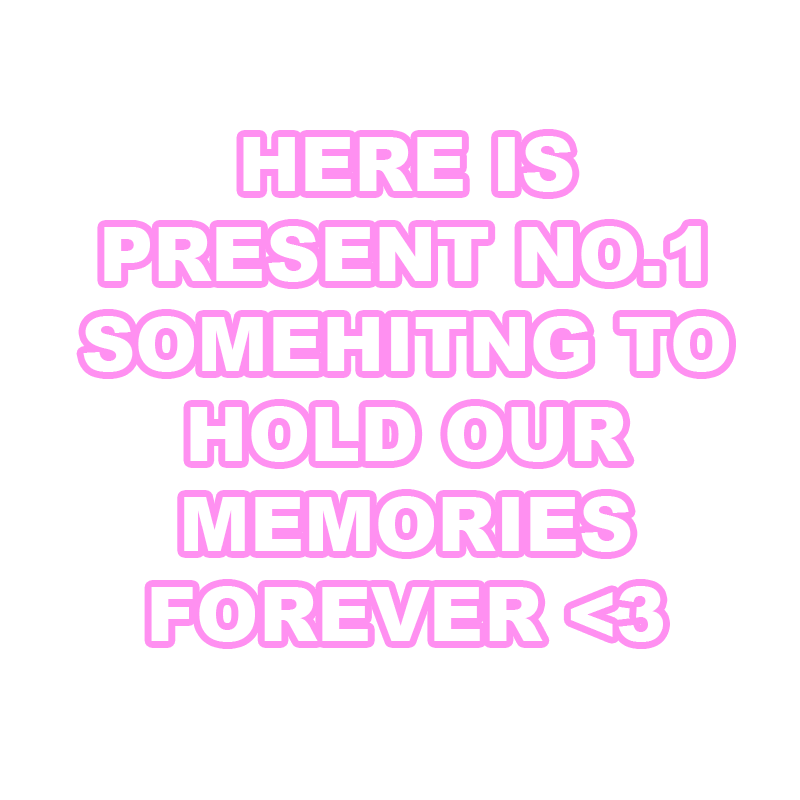
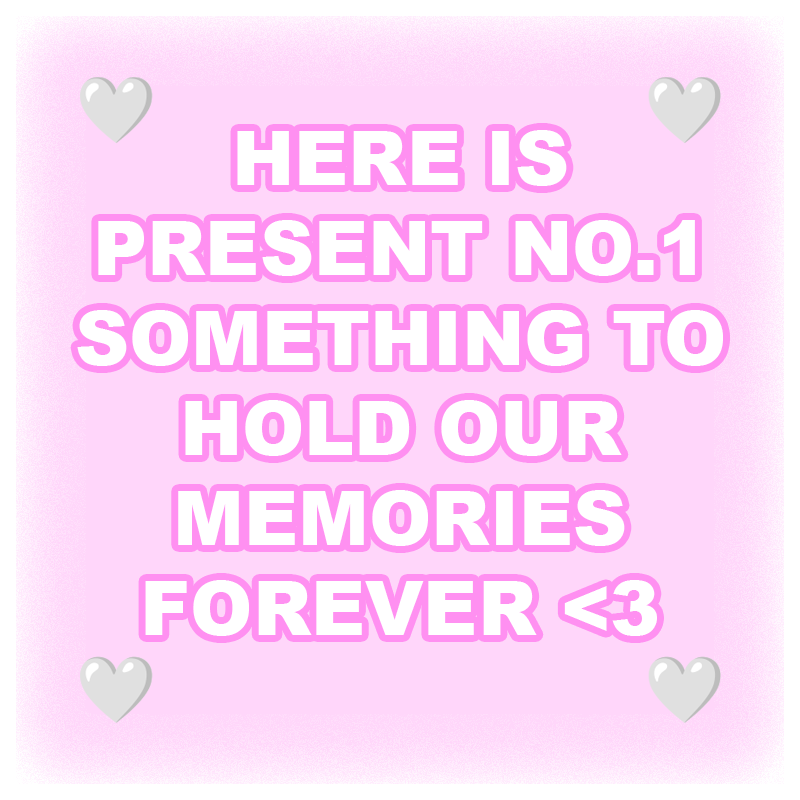
added final touch ups

diff --git a/style.css b/style.css
@@ -1,6 +1,11 @@
 /* Stylesheet for html pages */
 
 .index-centre-div-logo{
+    background-image: url("/bg2.png");
+    background-size: cover; 
+    background-position: center; 
+    width: 500px;
+    height: 700px;
     max-width: fit-content;
     margin-left: auto;
     margin-right: auto;
@@ -45,7 +50,8 @@ body, html {
 }
 
 .presimg {
-    padding-top: 150px;
+    border-radius: 25px;
+    margin-top: 150px;
     width: 300px;
     height: 300px;
     align-self: auto;
